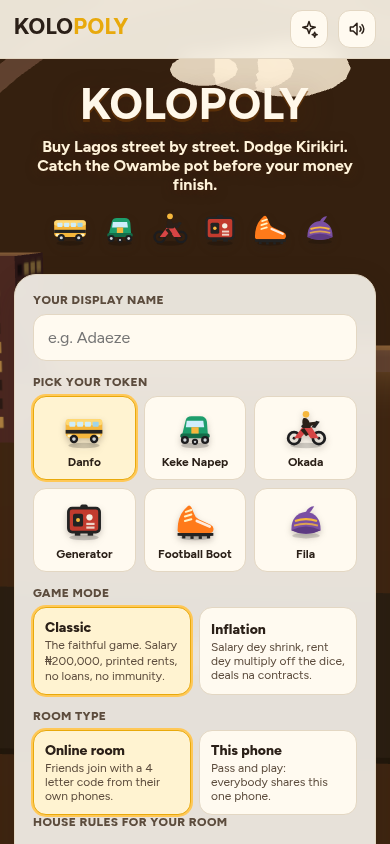
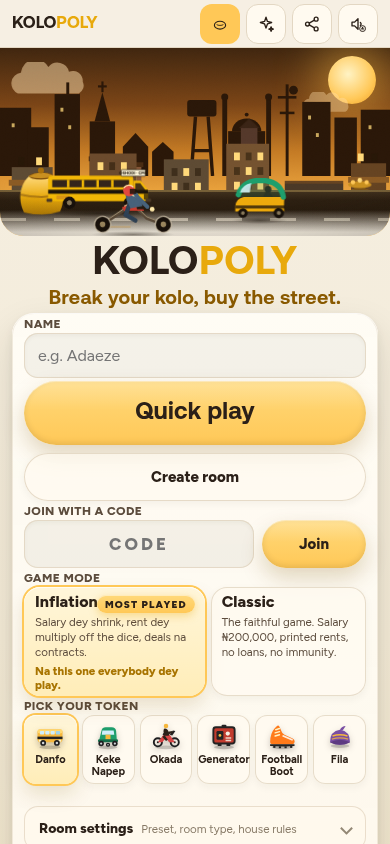
Landing plays like a game home (#5)
One slogan, one name, Quick play as the thumb action. The shelf shows the drop, and Claim writes the real stock.

diff --git a/public/index.html b/public/index.html
@@ -216,7 +216,6 @@
       </div>
       <div class="hero-type">
         <h1 class="display hero-wordmark">KOLO<span class="gold">POLY</span></h1>
-        <p class="tagline lead"><span class="tl">Buy Lagos street by street. Dodge Kirikiri.</span><span class="tl">Catch the Owambe pot before your money finish.</span></p>
         <p class="hero-slogan">Break your kolo, buy the street.</p>
       </div>
   </div>
@@ -234,35 +233,33 @@
     <button class="btn ghost block mt8" id="inviteChangeBtn">Change name or token</button>
   </div>
 
-  <section class="join-card hidden" id="welcomeCard">
-    <p class="overline">WELCOME BACK</p>
-    <h2 class="welcome-title" id="welcomeTitle">Welcome back</h2>
-    <div class="invite-row">
+  <section class="join-card home-return hidden" id="welcomeCard">
+    <div class="home-who">
       <span class="invite-token" id="welcomeToken"></span>
-      <p class="caption grow" id="welcomeSub"></p>
+      <h2 class="welcome-title" id="welcomeTitle"></h2>
     </div>
-    <button class="btn block" id="welcomeCreate">Create room</button>
-    <div class="btnrow mt8">
-      <button class="btn ghost" id="welcomeQuick">Quick play</button>
-      <button class="btn ghost" id="welcomeJoinCode">Join with a code</button>
+    <p class="caption hidden" id="welcomeSub"></p>
+    <button class="btn play-go block" id="welcomeQuick">Quick play</button>
+    <div class="home-secondary">
+      <button class="btn ghost" id="welcomeCreate">Create room</button>
+      <button class="btn ghost" id="welcomeJoinCode">Join</button>
     </div>
-    <button class="btn ghost block mt8" id="welcomeChange">Change name or token</button>
+    <button type="button" class="home-link" id="welcomeChange">Name or token</button>
   </section>
 
   <section class="join-card" id="joinCard">
-    <label for="nameIn">Your display name</label>
+    <label for="nameIn">Name</label>
     <input class="textin" id="nameIn" maxlength="20" placeholder="e.g. Adaeze" autocomplete="name">
 
-    <label for="codeIn">Join with a code</label>
-    <div class="join-row">
-      <input class="textin" id="codeIn" maxlength="4" placeholder="CODE" autocomplete="off" autocapitalize="characters" inputmode="text" spellcheck="false" enterkeyhint="go">
-      <button class="btn" id="joinBtn">Join</button>
+    <div class="play-actions">
+      <button class="btn play-go block" id="quickBtn">Quick play</button>
+      <button class="btn ghost block" id="createBtn">Create room</button>
     </div>
 
-    <div class="play-actions">
-      <button class="btn dark block" id="quickBtn">Quick play</button>
-      <p class="caption center mt8">Public room, timed. First come, first seated.</p>
-      <button class="btn block mt8" id="createBtn">Create room</button>
+    <label for="codeIn">Join with a code</label>
+    <div class="join-row home-join">
+      <input class="textin" id="codeIn" maxlength="4" placeholder="CODE" autocomplete="off" autocapitalize="characters" inputmode="text" spellcheck="false" enterkeyhint="go">
+      <button class="btn" id="joinBtn">Join</button>
     </div>
 
     <label>Game mode</label>
@@ -336,8 +333,7 @@
     </div>
     <div class="market-drop" id="marketCard">
       <div class="shelf-head">
-        <span class="shelf-kicker">SHELF</span>
-        <span class="shelf-kicker" id="marketTitle">Today</span>
+        <span class="shelf-kicker" id="marketTitle">Shelf</span>
       </div>
       <div class="market-shelf" id="marketShelf" aria-live="polite"></div>
       <p class="shelf-tip" id="marketLine"></p>
@@ -345,16 +341,13 @@
       <button class="btn block" type="button" id="claimBtn">Claim</button>
       <button class="btn ghost block mt8 hidden" type="button" id="shelfClose">Close</button>
       <div class="whisper-row">
-        <div class="grow">
-          <div class="whisper-name">Whispers</div>
-          <div class="caption" id="whisperCap">Off until you ask. Mute here any time. Sound off mutes them too.</div>
-        </div>
-        <label class="switch"><input type="checkbox" id="optWhisper"><span class="track"></span></label>
+        <span class="whisper-name">Whispers</span>
+        <span class="caption" id="whisperCap"></span>
+        <label class="switch"><input type="checkbox" id="optWhisper" aria-label="Whispers"><span class="track"></span></label>
       </div>
     </div>
   </section>
-  <p class="caption center landing-foot">2 to 6 players. Money scale: ₦1,000 in this game na the classic $1. Every amount shows exact, always.</p>
-  <p class="center"><button type="button" class="btn small ghost" id="recordsBtn">Top landlords on this phone</button></p>
+  <p class="center"><button type="button" class="btn small ghost" id="recordsBtn">Top landlords</button></p>
 </main>
 
 <!-- ============================ LOBBY ============================ -->

diff --git a/public/retention.js b/public/retention.js
@@ -57,7 +57,7 @@
     return /iPad|iPhone|iPod/.test(ua) || (navigator.platform === 'MacIntel' && navigator.maxTouchPoints > 1);
   }
   function $(id) { return document.getElementById(id); }
-  function setLine(text) { const el = $('marketLine'); if (el && text) el.textContent = text; }
+  function setLine(text) { const el = $('marketLine'); if (el) el.textContent = text || ''; }
 
   function identityBody() {
     return { clientId: clientId(), token: seatToken(), name: playerName() };
@@ -71,12 +71,12 @@
     return res.json();
   }
 
-  function renderShelf(inv, uses) {
+  function renderShelf(inv, uses, preview) {
     const shelf = $('marketShelf');
     if (!shelf) return;
     const data = inv || { cowries: 0, kola: 0, yams: 0, cloth: 0 };
     if (window.KPGoods) {
-      shelf.innerHTML = window.KPGoods.slots(data, { uses: uses || {} });
+      shelf.innerHTML = window.KPGoods.slots(data, { uses: uses || {}, preview: preview || null });
       shelf.querySelectorAll('[data-good]').forEach((b) => b.addEventListener('click', () => {
         const face = window.KPGoods.face[b.dataset.good];
         if (face) setLine(face.use);
@@ -112,15 +112,17 @@
     if (!btn || !view) return;
     if (view.canClaim) {
       btn.disabled = false;
+      btn.classList.remove('hidden');
+      btn.classList.add('claim-live');
       btn.textContent = 'Claim';
-      if (view.warmReady) setLine('Extra in today drop.');
-      else setLine('Tap Claim. Spend the goods in a match.');
+      setLine('');
     } else {
+      btn.classList.remove('claim-live');
+      btn.classList.add('hidden');
       btn.disabled = true;
-      btn.textContent = 'Stocked';
-      setLine('Dawn restocks the shelf.');
+      setLine('');
     }
-    renderShelf(view.inventory, view.uses);
+    renderShelf(view.inventory, view.uses, view.canClaim ? view.nextDrop : null);
     paintShelfBtn(view);
   }
   function renderSwitch() {
@@ -132,11 +134,11 @@
     box.checked = !denied && !localMuted() && subscribed && !serverMuted;
     box.disabled = !clientId() || !pushEnabled;
     if (cap) {
-      if (!pushEnabled) cap.textContent = 'Whispers need the server keys. The shelf still works.';
-      else if (denied) cap.textContent = 'Whispers stay off. This phone already refused them.';
-      else if (localMuted() || serverMuted) cap.textContent = 'Whispers are muted. This switch turns them back on.';
-      else if (subscribed) cap.textContent = 'On. The table can speak when the pot swells, your seat is held, or the drop is ready.';
-      else cap.textContent = 'Off until you ask. Mute here any time. Sound off mutes them too.';
+      if (!pushEnabled) cap.textContent = 'Off';
+      else if (denied) cap.textContent = 'Blocked';
+      else if (localMuted() || serverMuted) cap.textContent = 'Muted';
+      else if (subscribed) cap.textContent = 'On';
+      else cap.textContent = '';
     }
     syncing = false;
   }
@@ -288,13 +290,14 @@
         setLine('The market no answer. Try the claim again.');
         return;
       }
-      const landed = $('marketLanded');
-      if (landed && out.granted) {
-        const g = out.granted;
-        landed.textContent = '+' + g.cowries + ' cowries  +' + g.kola + ' kola  +' + g.yams + ' yam  +' + g.cloth + ' cloth';
-      }
-      setLine(out.already ? 'Dawn restocks the shelf.' : 'Shelf stocked. Spend am in a match.');
       renderClaim(out);
+      const landed = $('marketLanded');
+      if (landed) {
+        if (out.granted) {
+          const g = out.granted;
+          landed.textContent = '+' + g.cowries + ' cowries  +' + g.kola + ' kola  +' + g.yams + ' yam  +' + g.cloth + ' cloth';
+        } else landed.textContent = '';
+      }
       if (out.first) {
         claimPending = true;
         if (refreshed) maybeAsk('claim');
@@ -311,7 +314,7 @@
     const join = $('joinCard');
     if (!market || !welcome || !join) return;
     if (!welcome.classList.contains('hidden')) {
-      const anchor = $('welcomeCreate');
+      const anchor = $('welcomeQuick') || $('welcomeCreate');
       if (anchor) welcome.insertBefore(market, anchor);
       else welcome.appendChild(market);
     } else {

diff --git a/public/app.js b/public/app.js
@@ -848,9 +848,7 @@ $('settingsToggle').addEventListener('click', () => {
 $('nameIn').value = localStorage.getItem('kolopolyName') || '';
 $('nameIn').addEventListener('change', () => localStorage.setItem('kolopolyName', $('nameIn').value.trim()));
 paintGameMode();
-// KP14 audit: the welcome card promises "Your token and settings dey
-// as you leave am", but the create options reset on every load. They
-// persist now, as one set beside the name, token, mode and audio keys.
+// Create options persist beside the name, token, mode and audio keys.
 const OPT_IDS = ['optTimed', 'optDoubleStart', 'optNoRentJail', 'optFirstLap', 'optChaos', 'optVoice', 'optTimer', 'presetSel'];
 try {
   const savedOpts = JSON.parse(localStorage.getItem('kolopolyCreateOpts') || 'null');
@@ -932,14 +930,14 @@ function revealForm(focusId) {
   if (window.KPRetention) window.KPRetention.placeMarket();
   if (focusId) { const el = $(focusId); if (el) el.focus(); }
 }
-// Welcome back: a remembered player acts first; editing is one tap away,
-// never a fresh form by default.
+// A remembered player acts first. The name sits once beside the token.
+// Editing is one tap away, never a fresh form by default.
 (function setupWelcome() {
   const name = rememberedName();
   if (!name || inviteCode) return;
-  $('welcomeTitle').textContent = 'Welcome back, ' + name;
+  $('welcomeTitle').textContent = name;
   $('welcomeToken').innerHTML = tokenArtFor(selectedToken);
-  $('welcomeSub').textContent = 'Your token and settings dey as you leave am. Create a room, quick play, or join with a code.';
+  $('welcomeSub').textContent = '';
   $('welcomeCard').classList.remove('hidden');
   $('joinCard').classList.add('hidden');
   $('welcomeCreate').addEventListener('click', () => { $('nameIn').value = name; $('createBtn').click(); });
@@ -2282,10 +2280,13 @@ window.KPGoods = {
       const face = SHELF_FACE[key];
       const cost = uses[key] && uses[key].cost ? uses[key].cost : face.cost;
       const have = data[key] || 0;
+      const plus = opts.preview && opts.preview[key] ? Math.max(0, Math.floor(Number(opts.preview[key]) || 0)) : 0;
+      const incoming = have < 1 && plus > 0;
       const on = armed[key] ? ' armed' : '';
-      const empty = have < 1 ? ' empty' : '';
-      return '<button type="button" class="good-slot' + on + empty + '" data-good="' + key + '" data-cost="' + cost + '" data-have="' + have + '" aria-label="' + face.label + ', ' + have + '">' +
-        '<span class="good-n">' + have + '</span>' +
+      const empty = have < 1 && !incoming ? ' empty' : '';
+      const shown = incoming ? ('+' + plus) : String(have);
+      return '<button type="button" class="good-slot' + on + empty + (incoming ? ' incoming' : '') + '" data-good="' + key + '" data-cost="' + cost + '" data-have="' + have + '" aria-label="' + face.label + ', ' + have + (incoming ? ', claim +' + plus : '') + '">' +
+        '<span class="good-n' + (incoming ? ' incoming' : '') + '">' + shown + '</span>' +
         '<span class="good-ico">' + SHELF_ICON[key] + '</span>' +
         '<span class="good-k">' + face.label + '</span>' +
         '<span class="good-cost">×' + cost + '</span></button>';

diff --git a/public/style.css b/public/style.css
@@ -1963,3 +1963,58 @@ body.gl-on #view-landing > p.landing-foot, #view-landing > p.landing-foot { colo
 @media (max-width: 699px) {
   .toast { bottom: calc(228px + env(safe-area-inset-bottom)); z-index: 96; }
 }
+
+/* Home: one title, one play path, a shelf of goods.
+   The scene is the stage. The slogan is the only line under it.
+   Quick play is the thumb action. Join and name sit quieter.
+   Claim pulses while a drop is waiting, then the slots show stock. */
+@media (max-width: 699px) {
+  #view-landing .hero-scene { height: 188px; }
+}
+#view-landing .hero-type { padding: 8px 16px 2px; }
+#view-landing .hero-wordmark { font-size: 40px; line-height: 1; }
+#view-landing .hero-slogan { margin-top: 4px; font-size: clamp(18px, 5vw, 22px); }
+#view-landing .play-go,
+#view-landing .play-actions .play-go {
+  height: 64px; min-height: 64px;
+  font-family: 'Aeonik Pro', 'Figtree', sans-serif;
+  font-size: 24px; letter-spacing: 0.2px;
+}
+#view-landing #claimBtn {
+  height: 46px; min-height: 46px; font-size: 16px;
+}
+#view-landing .play-actions .btn + .btn { margin-top: 8px; }
+#view-landing .play-go:active { transform: scale(0.97) translateY(1px); }
+#welcomeCard.join-card {
+  background: transparent; box-shadow: none;
+  backdrop-filter: none; -webkit-backdrop-filter: none;
+  margin: 0 8px 12px; padding: 2px 10px 8px;
+}
+.home-who { display: flex; align-items: center; gap: 10px; min-height: 44px; }
+.home-who .welcome-title { font-size: 22px; line-height: 1.1; }
+.home-who .invite-token { width: 40px; height: 40px; display: inline-flex; align-items: center; justify-content: center; }
+.home-secondary { display: flex; gap: 8px; margin-top: 8px; }
+.home-secondary .btn { flex: 1; height: 44px; min-height: 44px; font-size: 14px; }
+.home-link {
+  display: block; width: 100%; margin-top: 4px; min-height: 36px;
+  background: none; border: none; color: var(--ink-soft);
+  font-weight: 700; font-size: 13px; text-decoration: underline; text-underline-offset: 3px;
+}
+#welcomeCard .play-go { margin-top: 8px; }
+#view-landing .market-drop { margin-top: 6px; padding-top: 0; box-shadow: none; }
+#view-landing .whisper-row { margin-top: 6px; min-height: 36px; gap: 8px; }
+#view-landing .whisper-name {
+  font-size: 12px; letter-spacing: 0.08em; text-transform: uppercase; color: var(--ink-soft);
+}
+#view-landing .whisper-row .caption { margin: 0; font-weight: 800; }
+#view-landing .whisper-row .caption:empty { display: none; }
+#view-landing .whisper-row .switch { margin-left: auto; }
+.good-slot .good-n.incoming { background: var(--gold); color: var(--ink); }
+@keyframes claimPulse {
+  0%, 100% { box-shadow: 0 8px 18px rgba(120, 78, 4, 0.28), inset 0 1px 0 rgba(255, 255, 255, 0.4); }
+  50% { box-shadow: 0 0 0 4px rgba(255, 200, 87, 0.45), 0 10px 22px rgba(232, 169, 12, 0.45), inset 0 1px 0 rgba(255, 255, 255, 0.4); }
+}
+#claimBtn.claim-live { animation: claimPulse 1.5s ease-in-out infinite; }
+@media (prefers-reduced-motion: reduce) {
+  #claimBtn.claim-live { animation: none; }
+}

diff --git a/retention.js b/retention.js
@@ -208,6 +208,12 @@ function createRetention(opts) {
         muted: !!p.pushMuted,
         denied: !!p.pushDenied
       },
+      nextDrop: p.lastClaimDay !== day ? {
+        cowries: BASE_DROP.cowries + (warmReady ? WARM_EXTRA.cowries : 0),
+        kola: BASE_DROP.kola + (warmReady ? WARM_EXTRA.kola : 0),
+        yams: BASE_DROP.yams + (warmReady ? WARM_EXTRA.yams : 0),
+        cloth: BASE_DROP.cloth + (warmReady ? WARM_EXTRA.cloth : 0)
+      } : null,
       uses: {
         cowries: { cost: USES.cowries.cost, kind: USES.cowries.kind, amount: USES.cowries.amount },
         kola: { cost: USES.kola.cost, kind: USES.kola.kind, amount: USES.kola.amount },
